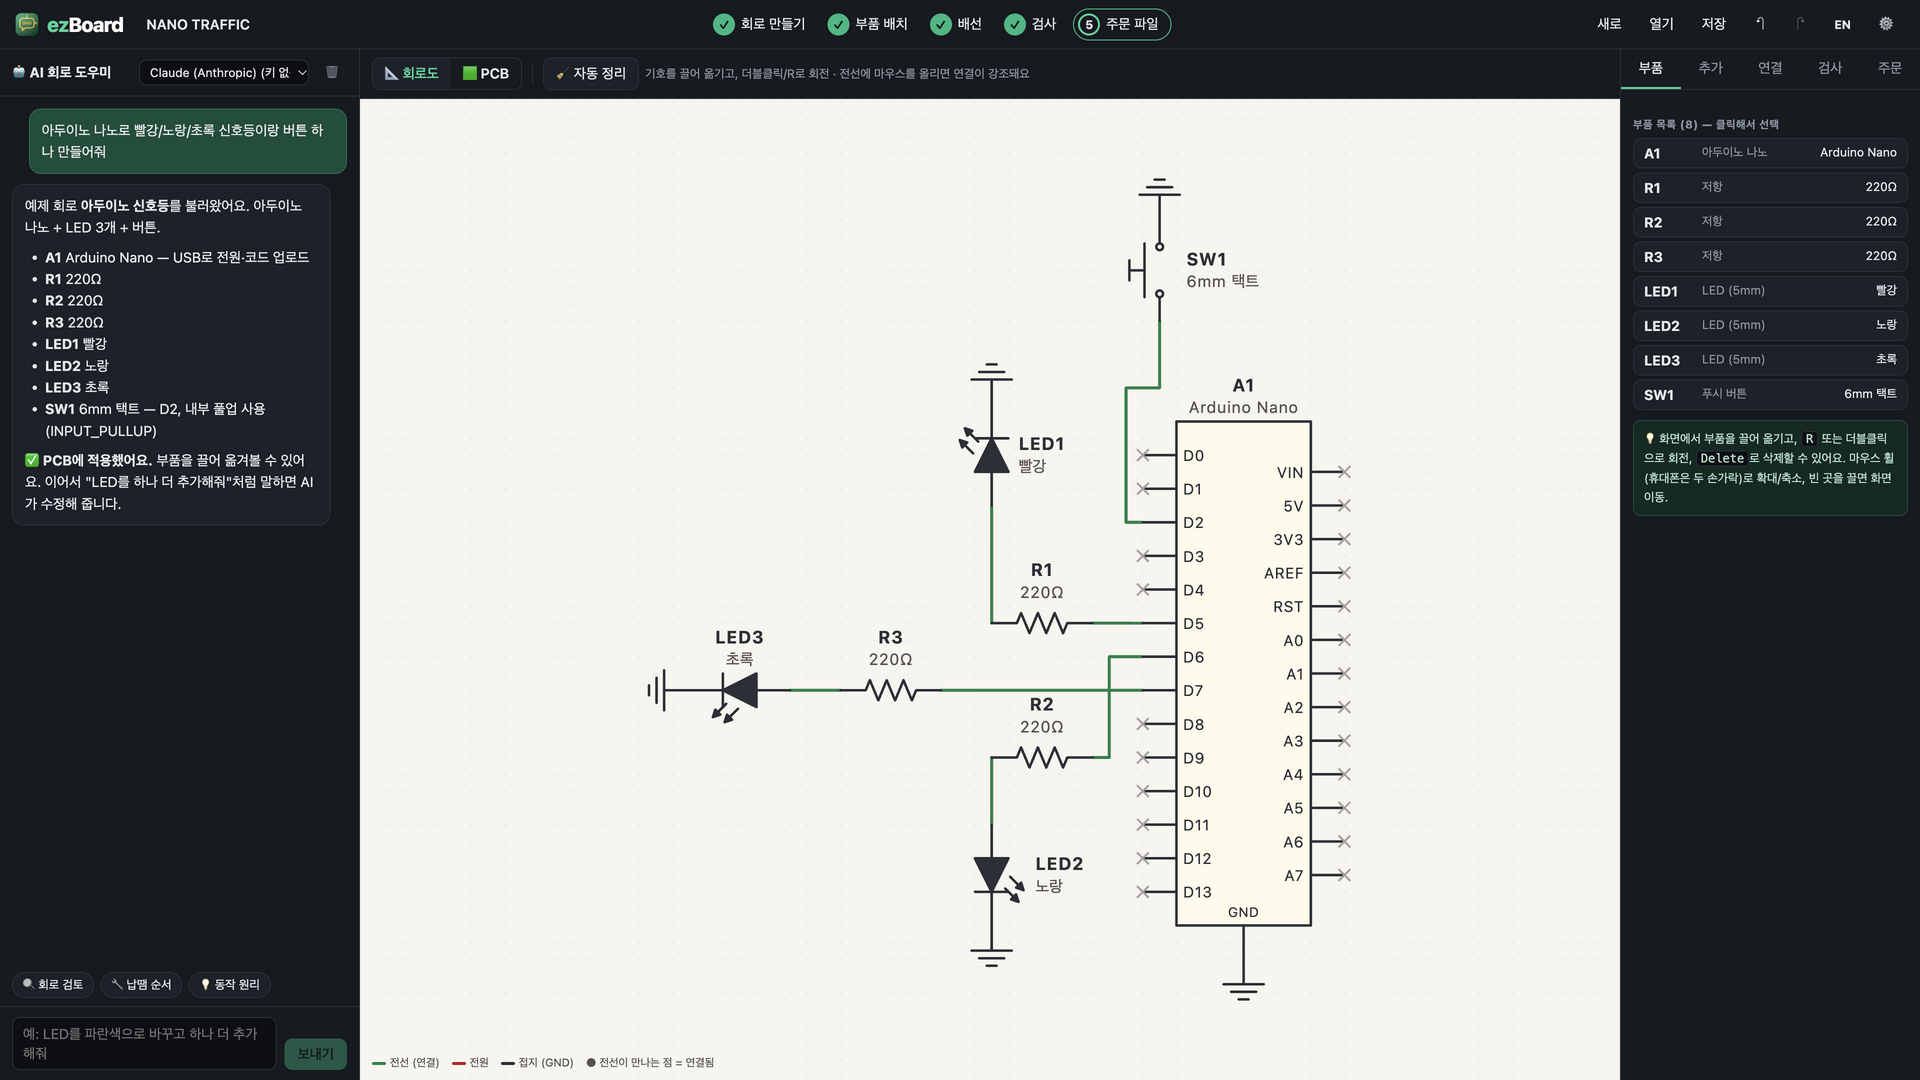
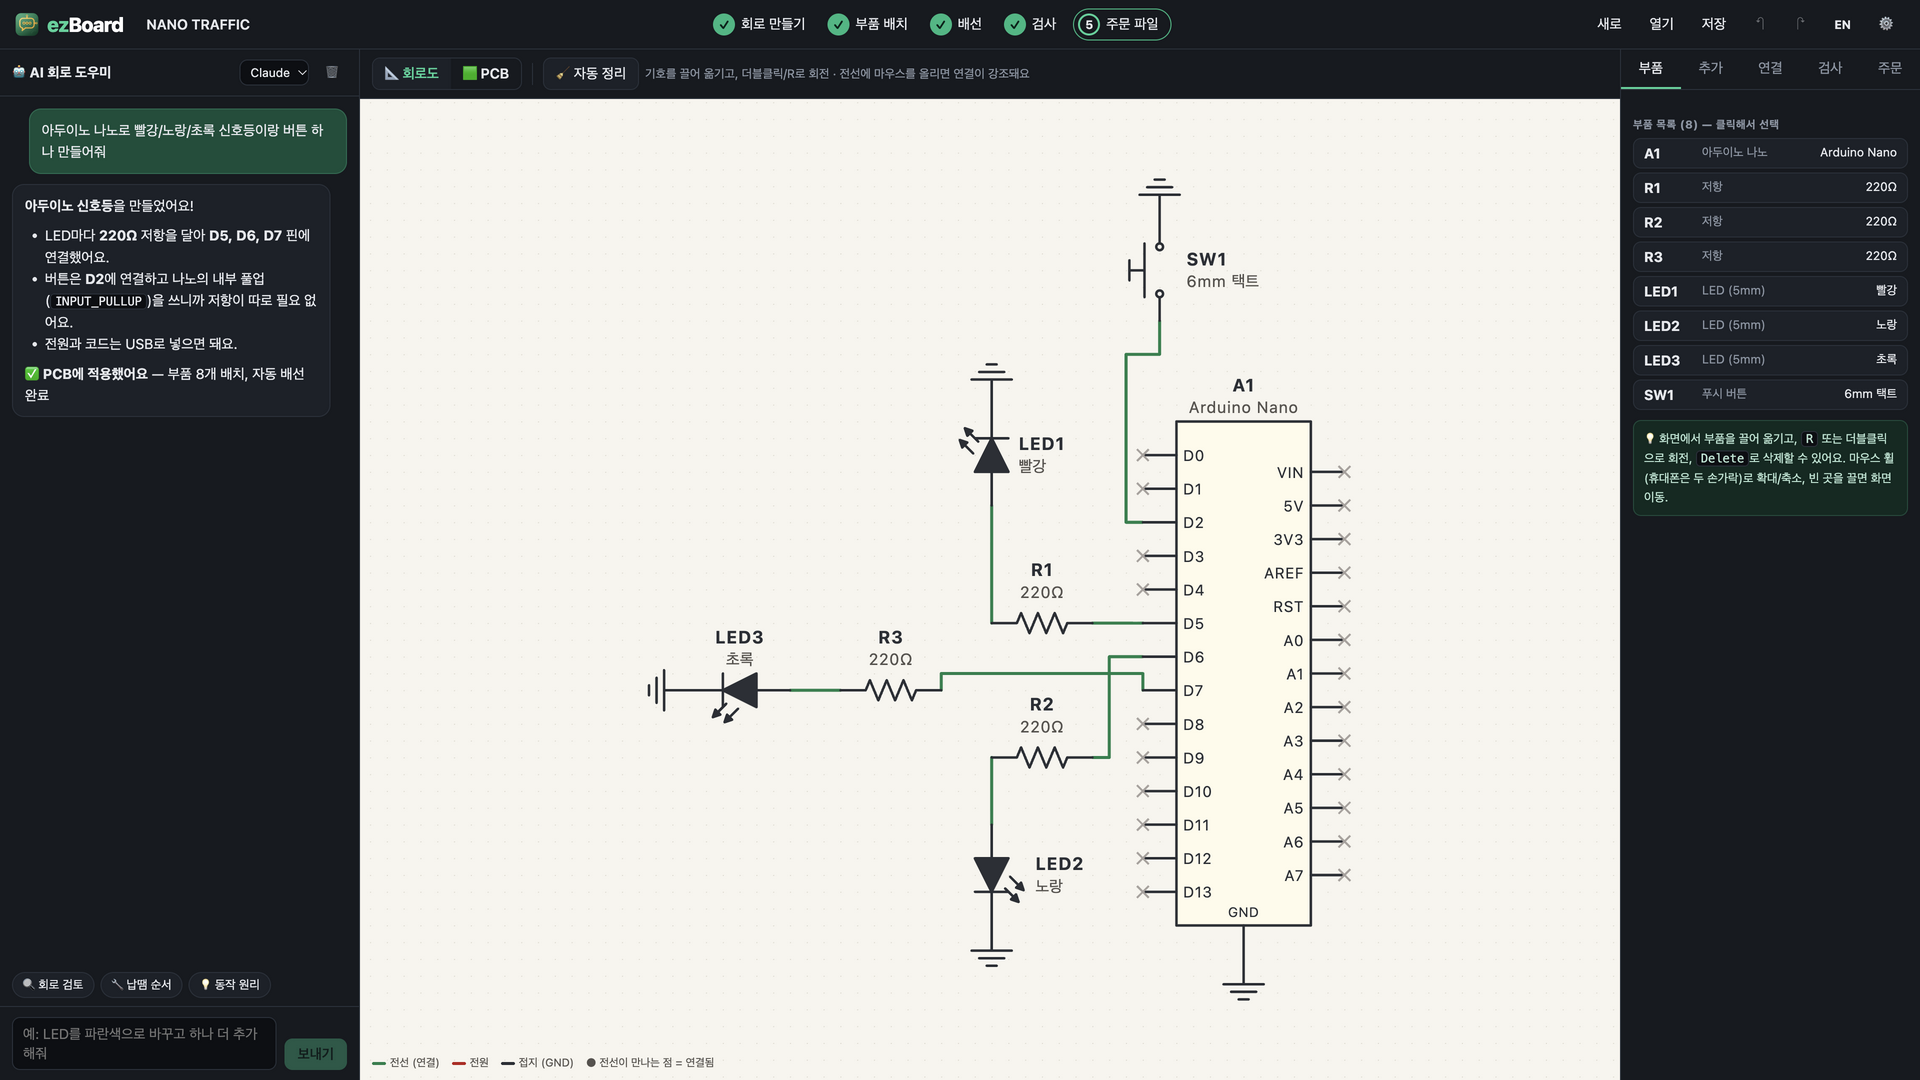
스크린샷을 영문 기준으로 갱신하고 회로도 겹침 수정
- screenshots/ 바로 아래를 영어 기본 세트로, 한국어는 screenshots/ko/
- 스토어용 화면에 AI 설계 대화를 넣고, AI 선택 상자를 짧은 이름(Claude/Gemini/GPT)으로
- 채팅 제목이 두 줄로 꺾이던 문제 수정
- 회로도: 옆으로 향한 전원 기호 이름과 부품 이름표 위로 전선이 지나가던 문제 수정,
  IC 이름표를 전선이 덜 지나가는 왼쪽 위로 이동
- 테스트(Node) 환경에서 i18n이 document를 찾던 문제 수정

Changed region(s): [[0.0, 0.1833, 0.1562, 0.4889], [0.5, 0.6111, 0.5938, 0.6417], [0.0938, 0.0611, 0.1562, 0.0917]]

diff --git a/src/lib/schematic.ts b/src/lib/schematic.ts
@@ -48,7 +48,13 @@ export function labelPlacement(part: Part, pos: SchPos) {
     return { x: b.x2 + 0.6, y1: cy - 0.3, y2: cy + 1.0, anchor: 'start' as const, rect: { x1: b.x2, y1: cy - 1.5, x2: b.x2 + 0.6 + lw, y2: cy + 1.4 } };
   if (side === 'l')
     return { x: b.x1 - 0.6, y1: cy - 0.3, y2: cy + 1.0, anchor: 'end' as const, rect: { x1: b.x1 - 0.6 - lw, y1: cy - 1.5, x2: b.x1, y2: cy + 1.4 } };
-  return { x: b.x2 + 0.4, y1: b.y1 - 1.6, y2: b.y1 - 0.4, anchor: 'start' as const, rect: { x1: b.x2, y1: b.y1 - 2.8, x2: b.x2 + 0.4 + lw, y2: b.y1 } };
+  return { x: b.x1 - 0.4, y1: b.y1 - 1.6, y2: b.y1 - 0.4, anchor: 'end' as const, rect: { x1: b.x1 - 0.4 - lw, y1: b.y1 - 2.8, x2: b.x1, y2: b.y1 } };
+}
+
+/** 전원 기호가 핀에서 뻗어 나가는 길이. 옆으로 향한 전원 기호는 이름 글자까지 포함 */
+export function powerReach(net: string, dir: Dir): number {
+  if (netKind(net) === 'gnd' || dir === 'u' || dir === 'd') return 3.2;
+  return 2.8 + net.length * 0.68;
 }
 
 /** 부품이 차지하는 전체 영역 (기호 + 핀 + 글자 + 전원 기호) */
@@ -59,8 +65,9 @@ export function extentOf(part: Part, pos: SchPos, pinNet: Map<string, string>): 
     grow(p.x, p.y);
     if (p.net && netKind(p.net) !== 'signal') {
       const [dx, dy] = DIRV[p.dir];
-      grow(p.x + dx * 3.2 + dy * 1.6, p.y + dy * 3.2 + dx * 1.6);
-      grow(p.x + dx * 3.2 - dy * 1.6, p.y + dy * 3.2 - dx * 1.6);
+      const len = powerReach(p.net, p.dir);
+      grow(p.x + dx * len + dy * 1.6, p.y + dy * len + dx * 1.6);
+      grow(p.x + dx * len - dy * 1.6, p.y + dy * len - dx * 1.6);
     }
   }
   const l = labelPlacement(part, pos).rect;
@@ -211,6 +218,14 @@ export function routeSchematic(parts: Part[], nets: Net[], pos: Record<string, S
   for (const b of bodies)
     for (let y = Math.ceil(b.y1); y <= Math.floor(b.y2); y++)
       for (let x = Math.ceil(b.x1); x <= Math.floor(b.x2); x++) setBoth(x, y, BLOCK);
+  // 부품 이름표(참조·값) 위로도 전선이 지나가지 않게
+  for (const p of parts) {
+    const ps = pos[p.ref];
+    if (!ps) continue;
+    const r = labelPlacement(p, ps).rect;
+    for (let y = Math.floor(r.y1); y <= Math.ceil(r.y2); y++)
+      for (let x = Math.floor(r.x1); x <= Math.ceil(r.x2); x++) setBoth(x, y, BLOCK);
+  }
 
   // 기호 바로 옆 칸은 비용을 높여 전선이 기호에 붙어 다니지 않게
   const near = new Float32Array(N);
@@ -230,7 +245,8 @@ export function routeSchematic(parts: Part[], nets: Net[], pos: Record<string, S
     }
     if (p.net && netKind(p.net) !== 'signal') {
       out.power.push({ net: p.net, kind: netKind(p.net), x: p.x, y: p.y, dir: p.dir });
-      for (let k = 0; k <= 3; k++) for (const s of [-1, 0, 1]) setBoth(p.x + dx * k + dy * s, p.y + dy * k + dx * s, BLOCK);
+      const len = Math.ceil(powerReach(p.net, p.dir));
+      for (let k = 0; k <= len; k++) for (const s of [-1, 0, 1]) setBoth(p.x + dx * k + dy * s, p.y + dy * k + dx * s, BLOCK);
     } else {
       setBoth(p.x, p.y, p.net ? netId.get(p.net)! : uniq++);
     }

diff --git a/src/lib/ai.ts b/src/lib/ai.ts
@@ -3,10 +3,10 @@ import type { AiSettings, ChatMessage, Net, Part, Project, Provider } from '../t
 import { LIBRARY, librarySummary } from './library';
 import { getLang, t } from '../i18n';
 
-export const PROVIDERS: Record<Provider, { label: string; keyUrl: string; keyHint: string; defaultModel: string }> = {
-  claude: { label: 'Claude (Anthropic)', keyUrl: 'https://console.anthropic.com/settings/keys', keyHint: 'sk-ant-...', defaultModel: 'claude-sonnet-5-5' },
-  gemini: { label: 'Gemini (Google)', keyUrl: 'https://aistudio.google.com/apikey', keyHint: 'AIza...', defaultModel: 'gemini-2.5-pro' },
-  openai: { label: 'GPT (OpenAI)', keyUrl: 'https://platform.openai.com/api-keys', keyHint: 'sk-...', defaultModel: 'gpt-5' },
+export const PROVIDERS: Record<Provider, { label: string; short: string; keyUrl: string; keyHint: string; defaultModel: string }> = {
+  claude: { label: 'Claude (Anthropic)', short: 'Claude', keyUrl: 'https://console.anthropic.com/settings/keys', keyHint: 'sk-ant-...', defaultModel: 'claude-sonnet-5-5' },
+  gemini: { label: 'Gemini (Google)', short: 'Gemini', keyUrl: 'https://aistudio.google.com/apikey', keyHint: 'AIza...', defaultModel: 'gemini-2.5-pro' },
+  openai: { label: 'GPT (OpenAI)', short: 'GPT', keyUrl: 'https://platform.openai.com/api-keys', keyHint: 'sk-...', defaultModel: 'gpt-5' },
 };
 
 export interface AiCircuit {

diff --git a/src/index.css b/src/index.css
@@ -67,8 +67,8 @@ code, kbd { background: #0c0f13; border: 1px solid var(--line); border-radius: 4
 /* 채팅 */
 .chat { display: flex; flex-direction: column; border-right: 1px solid var(--line); background: var(--panel); min-height: 0; }
 .chat-head { display: flex; align-items: center; gap: 8px; padding: 10px 12px; border-bottom: 1px solid var(--line); }
-.chat-title { font-weight: 700; flex: 1; }
-.chat-head select { max-width: 170px; font-size: 12px; padding: 4px 6px; }
+.chat-title { font-weight: 700; flex: 1; white-space: nowrap; overflow: hidden; text-overflow: ellipsis; }
+.chat-head select { max-width: 150px; font-size: 12px; padding: 4px 6px; flex-shrink: 0; }
 .chat-list { flex: 1; overflow-y: auto; padding: 12px; display: flex; flex-direction: column; gap: 10px; }
 .msg { padding: 10px 12px; border-radius: 12px; line-height: 1.55; max-width: 95%; word-break: break-word; }
 .msg.user { align-self: flex-end; background: #134e3a; border: 1px solid #1d6b50; white-space: pre-wrap; }

diff --git a/src/components/ChatPanel.tsx b/src/components/ChatPanel.tsx
@@ -102,7 +102,7 @@ export default function ChatPanel({ onOpenSettings, onCircuit }: { onOpenSetting
         <div className="chat-title">{t('chat.title')}</div>
         <select value={settings.provider} onChange={(e) => setSettings({ ...settings, provider: e.target.value as Provider })} data-tip={t('tip.provider')}>
           {(Object.keys(PROVIDERS) as Provider[]).map((p) => (
-            <option key={p} value={p}>{PROVIDERS[p].label}{settings.keys[p] ? '' : t('chat.noKey')}</option>
+            <option key={p} value={p}>{PROVIDERS[p].short}{settings.keys[p] ? '' : t('chat.noKey')}</option>
           ))}
         </select>
         {messages.length > 0 && <button className="ghost small" onClick={clearChat} data-tip={t('tip.clearChat')}>🗑</button>}

diff --git a/src/i18n.ts b/src/i18n.ts
@@ -430,11 +430,12 @@ function initialLang(): Lang {
     const saved = localStorage.getItem('ezboard.lang');
     if (saved === 'ko' || saved === 'en') return saved;
   } catch { /* 무시 */ }
-  return (navigator.language || 'en').toLowerCase().startsWith('ko') ? 'ko' : 'en';
+  return (globalThis.navigator?.language || 'en').toLowerCase().startsWith('ko') ? 'ko' : 'en';
 }
 
 /** 문서 언어와 창 제목 */
 function applyDocLang(lang: Lang) {
+  if (typeof document === 'undefined') return; // 테스트(Node) 환경
   document.documentElement.lang = lang;
   document.title = lang === 'ko' ? 'ezBoard — AI PCB 설계' : 'ezBoard — AI PCB Design';
 }

diff --git a/screenshots/README.md b/screenshots/README.md
@@ -1,20 +1,27 @@
-# 앱 등록용 이미지 / Store listing images
+# Store listing images / 앱 등록용 이미지
 
-다시 만들기 / Regenerate: `npm run screenshots`
+English is the primary set (this folder). Korean versions are in [`ko/`](ko/) with the same structure.
+영어가 기본 세트이고, 한국어는 같은 구조로 [`ko/`](ko/) 폴더에 있습니다.
 
-| 폴더 / 파일 | 용도 / Store | 크기 |
+Regenerate / 다시 만들기: `npm run screenshots`
+
+| Path | Store | Size |
 |---|---|---|
-| `ko/`, `en/` | 한국어 / English 화면 | |
-| `*/desktop-2880x1800/` | Mac App Store (16:10) | 2880×1800 |
-| `*/desktop-1920x1080/` | Microsoft Store, Linux (Snap Store, Flathub) | 1920×1080 |
-| `*/android-phone-1080x1920/` | Google Play 휴대전화 스크린샷 | 1080×1920 |
-| `*/play-feature-graphic-1024x500.png` | Google Play 그래픽 이미지 (Feature graphic) | 1024×500 |
-| `app-icon-512.png` | Google Play 앱 아이콘 | 512×512 |
+| `desktop-2880x1800/` | Mac App Store (16:10) | 2880×1800 |
+| `desktop-1920x1080/` | Microsoft Store, Linux (Snap Store, Flathub) | 1920×1080 |
+| `android-phone-1080x1920/` | Google Play — phone screenshots | 1080×1920 |
+| `play-feature-graphic-1024x500.png` | Google Play — feature graphic | 1024×500 |
+| `app-icon-512.png` | Google Play — app icon | 512×512 |
 
-화면 순서 / Shots
-1. 시작 화면 (AI 대화, 예제) / Welcome (AI chat, examples)
-2. AI 대화 + 회로도 / AI chat + schematic
-3. PCB 편집 + 기능 설명 풍선 / PCB editing + feature tooltip
-4. 실물 보기 + 주문 파일 / Realistic view + order files
-5. 아두이노 예제 회로도 / Arduino example schematic
-(휴대전화는 시작 화면, 회로도, PCB, 실물 보기, 주문, 대화 6장 / phone: 6 shots)
+## Shots
+
+**Desktop**
+1. `01-welcome` — AI chat with examples
+2. `02-ai-schematic` — AI designs a 555 blinker; schematic view
+3. `03-pcb-tooltip` — PCB editing with a hover explanation
+4. `04-realistic-order` — realistic board view and order files (Gerber, BOM)
+5. `05-arduino-schematic` — Arduino Nano traffic light
+
+**Android phone**: `01-welcome`, `02-schematic`, `03-pcb`, `04-realistic`, `05-order`, `06-chat`
+
+The AI conversation in the shots is a representative example in the app's normal answer format; the circuits, schematics, and PCBs are generated by the app itself.
